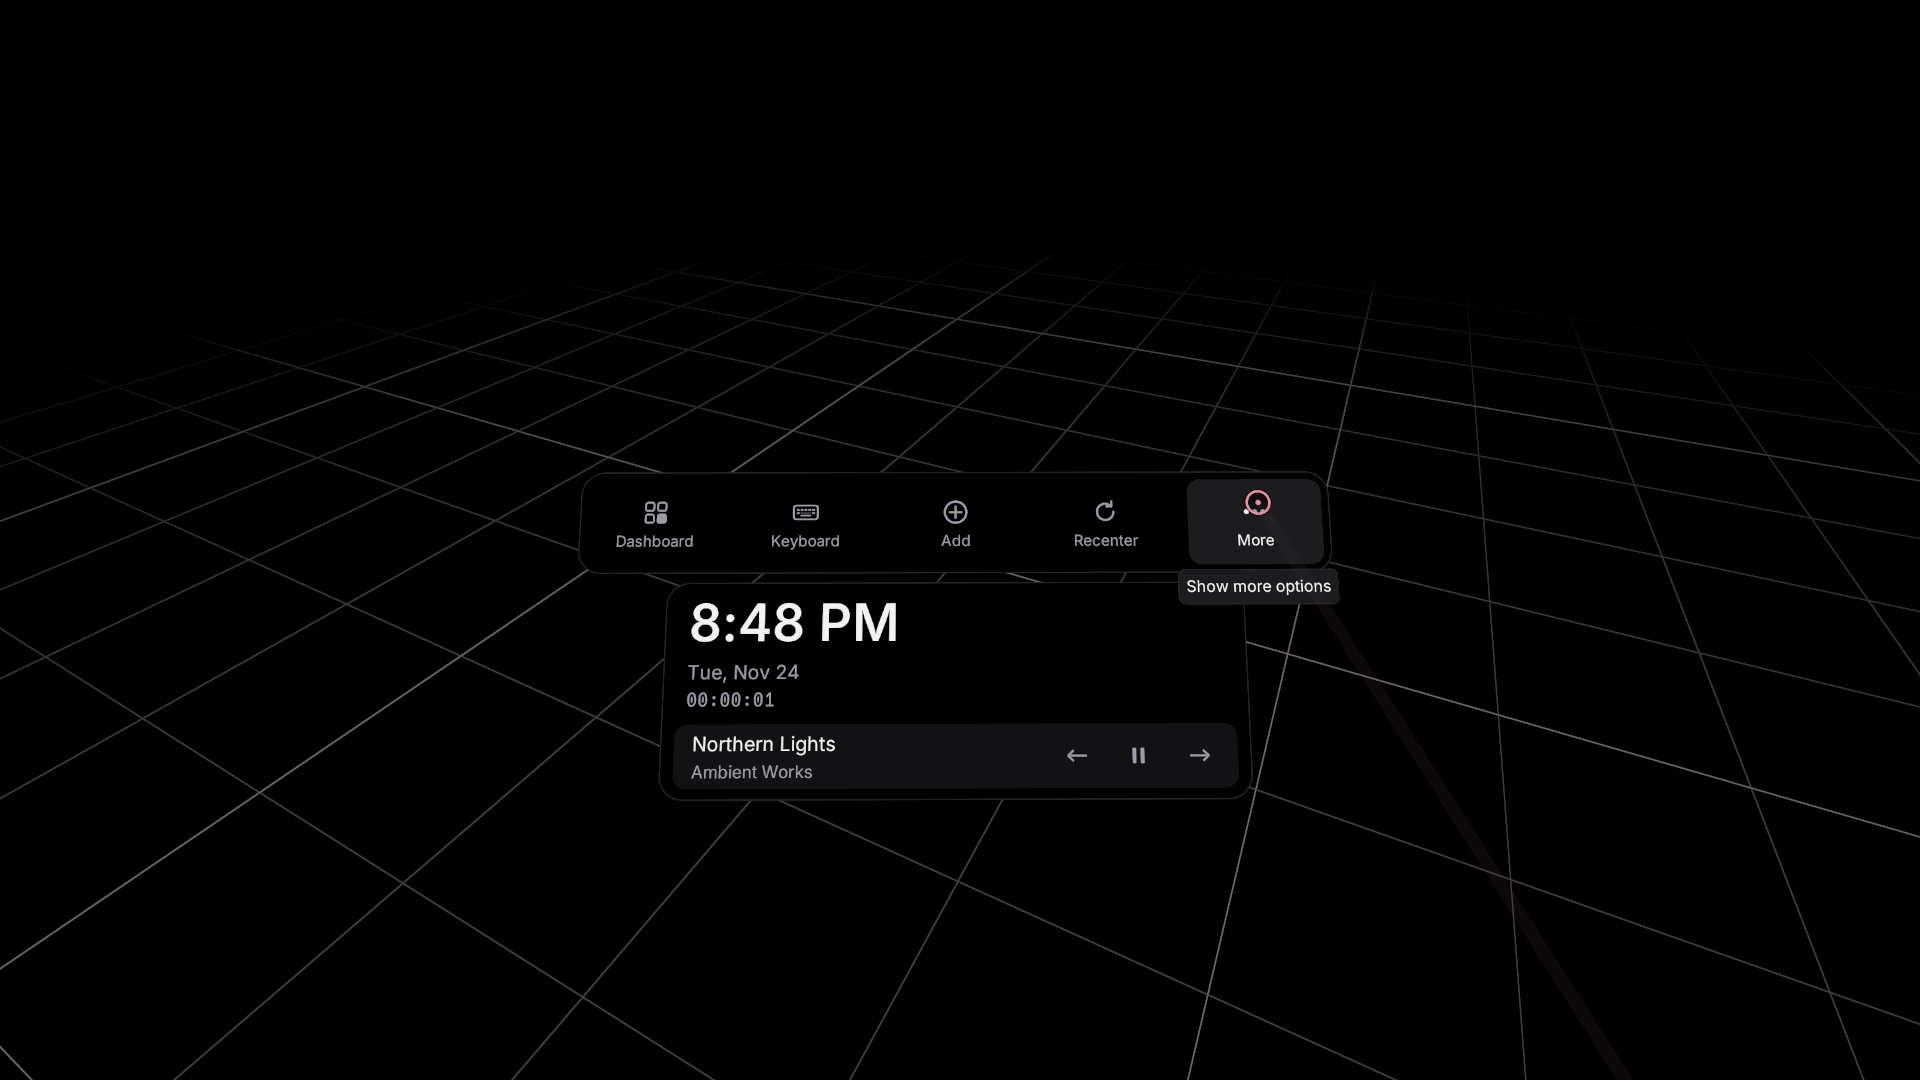
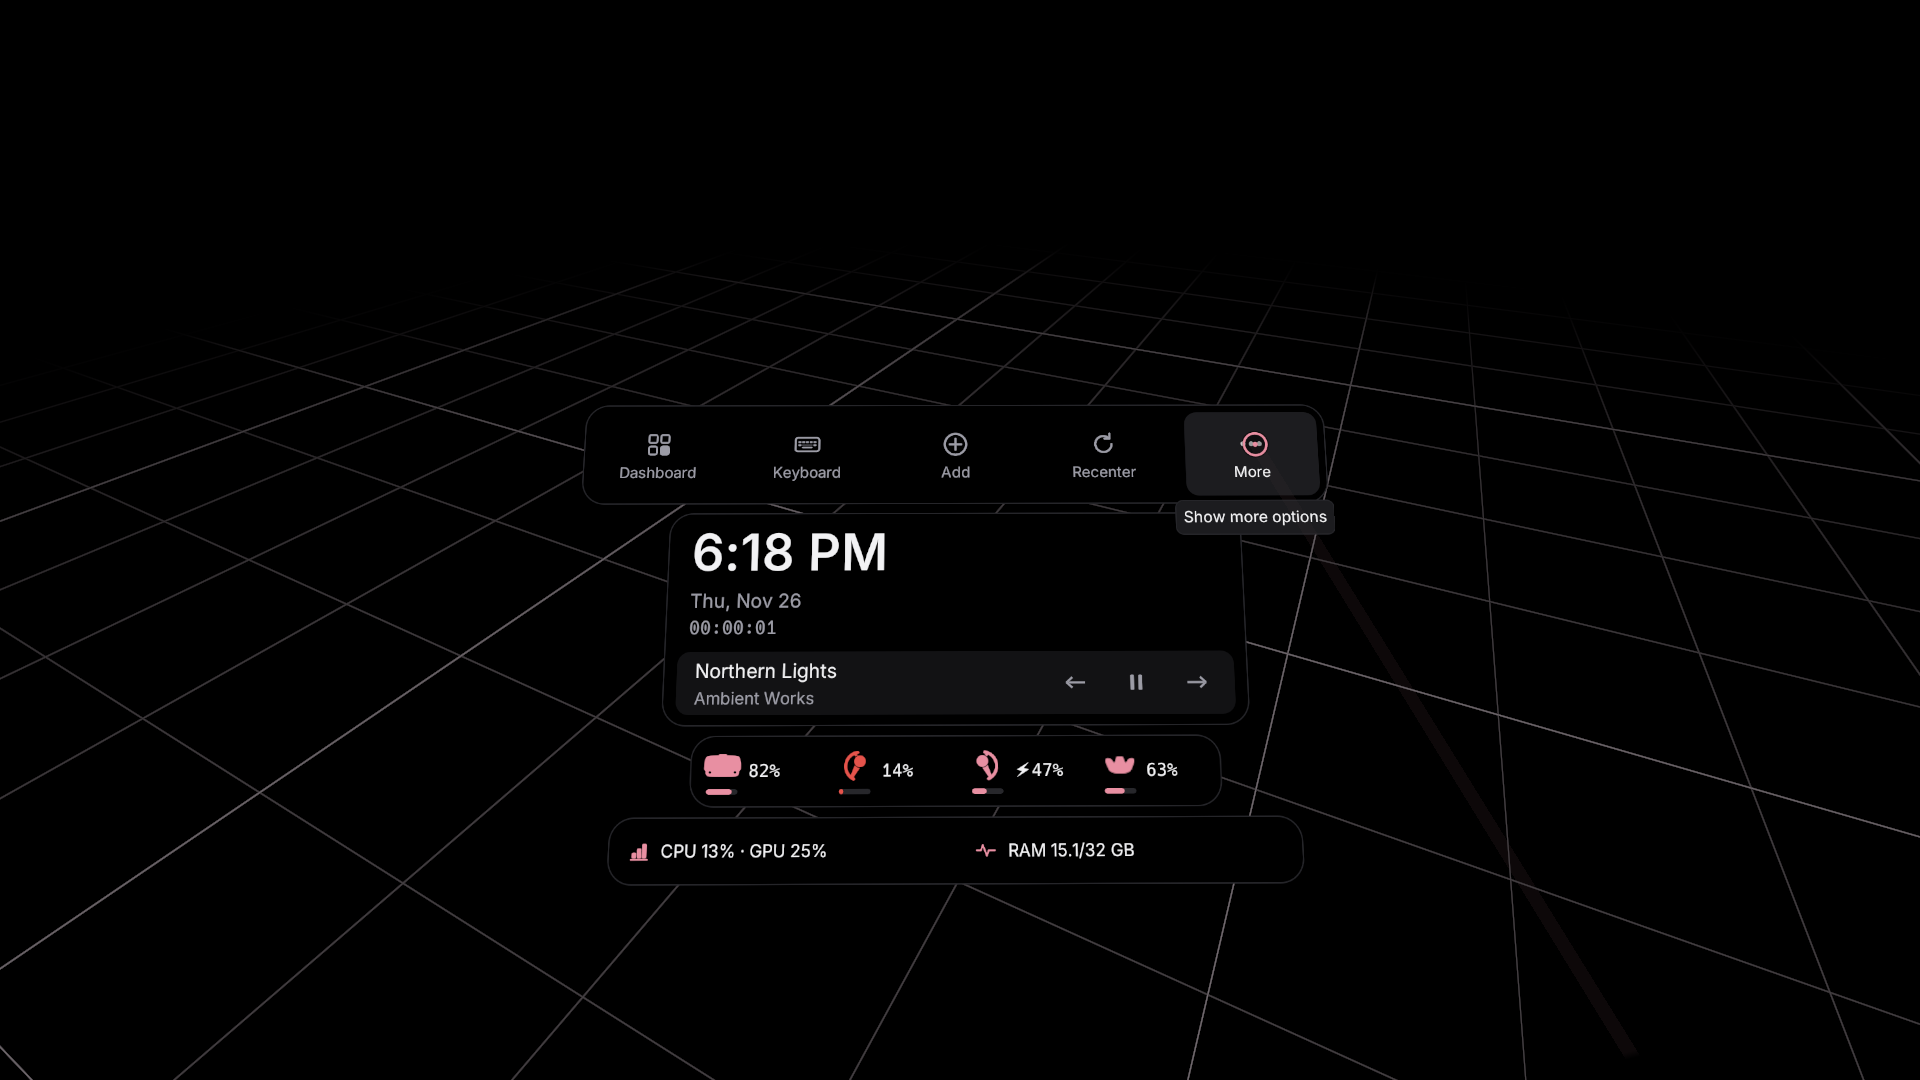
Docs images: regenerated after the Settings / wrist cleanup
All store screenshots, overview.png and settings-overview.png
re-rendered; the expanded-wrist shot is reframed so both status-chip
rows fit.

diff --git a/crates/rsoverlay-app/src/preview_vr.rs b/crates/rsoverlay-app/src/preview_vr.rs
@@ -132,7 +132,9 @@ impl Preset {
             Self::Gaming => (-0.12, -0.30, 0.0),
             Self::Social => (0.0, -0.30, 0.0),
             Self::Dashboard => (-0.08, -0.16, 0.0),
-            Self::WristCompact | Self::WristExpanded => (-0.46, -0.60, 0.20),
+            Self::WristCompact => (-0.46, -0.60, 0.20),
+            // Taller (two rows of status chips): look a little lower, step back.
+            Self::WristExpanded => (-0.46, -0.62, 0.13),
         }
     }
 
